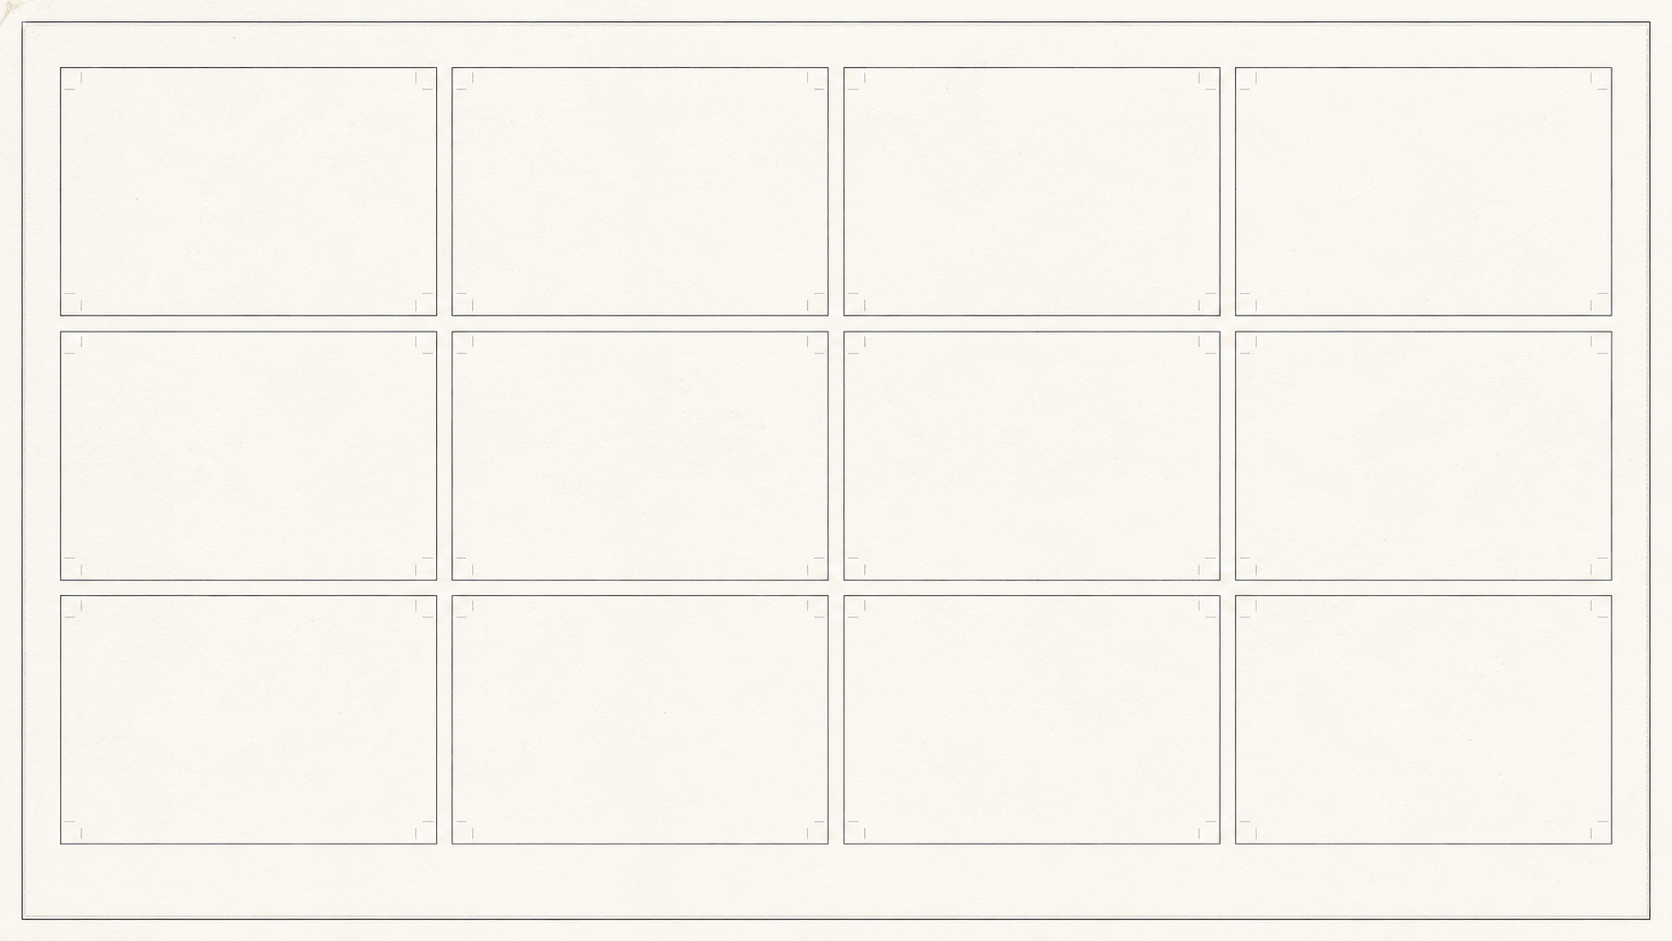
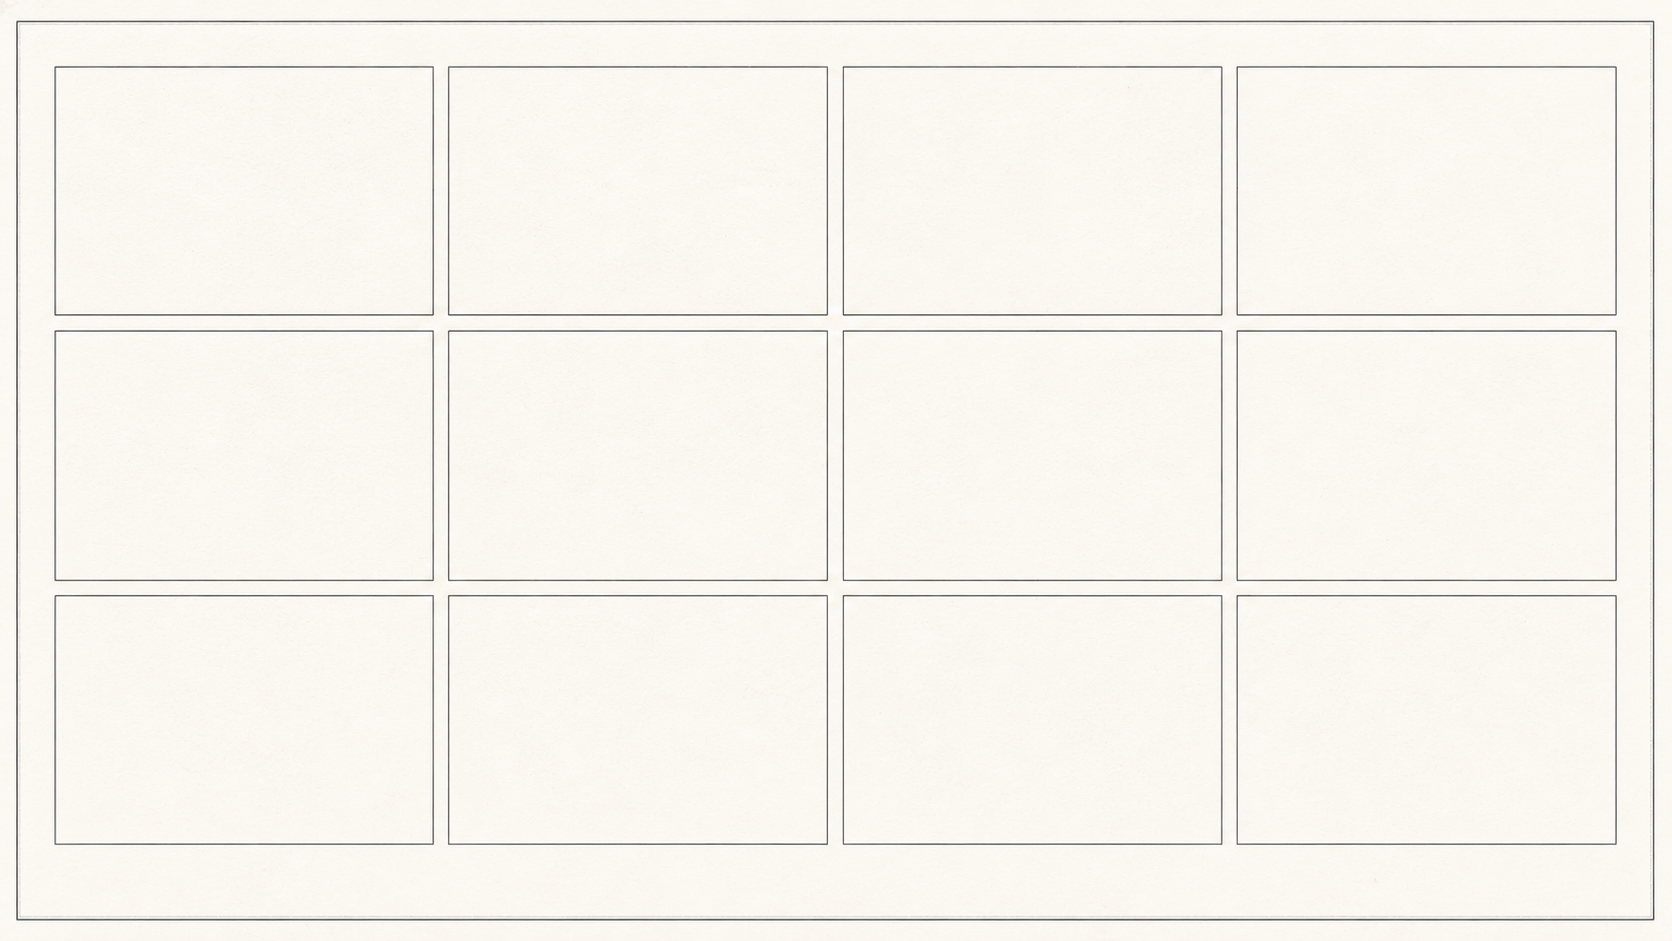
feat(writer): 러프 스토리보드 템플릿 단순판 교체 (Template_2)
코너 마크·이중 보더 제거된 클린 시트(외곽 보더 + 얇은 단일 패널 보더)로 교체.
크기(1672×941)·격자 위치는 구판과 거의 동일 — 비례 좌표 수px 재실측 반영.
스트립은 그리드 1열 크롭 + 좌측 마진 미러로 재구성(488×941, STRIP_COLS 재실측).
프롬프트의 corner marks 문구 제거. 실측 검증: 빈 템플릿 크롭 정렬, 합성 스트립
왕복, 신규 템플릿 실 fal 그리드 1회 생성(구 잡 프롬프트 재사용) — 시트 유지·
3행 구조·목각 캐논·크롭 정합 확인.

diff --git a/src/lib/writer/rough-storyboard-grid.ts b/src/lib/writer/rough-storyboard-grid.ts
@@ -17,21 +17,23 @@ import {
 
 // ── 셀 지오메트리 (finalize crop 이 소비) ─────────────────────────────────────
 // 템플릿 실측 비례 좌표(격자선 3px 인셋) — public/rough-storyboard-grid.png 1672×941 기준.
-//   ⚠️ 템플릿 교체 시 재실측 (dev/Rough_Storyboard_Template 분석 스크립트로 격자 검출).
+//   2026-07-22 교체: Rough_Storyboard_Template_2(단순판 — 코너 마크·이중 보더 제거, 얇은 단일
+//   보더 + 외곽 시트 보더만). 크기·격자 위치는 구판과 거의 동일해 비례 좌표만 수px 재실측.
+//   ⚠️ 템플릿 교체 시 재실측 (격자선 dark-ratio 프로파일로 검출).
 //   edit 모델 출력이 리샘플돼도 종횡비가 유지되면 비례 좌표는 유효하다.
 export const GRID_COLS: ReadonlyArray<readonly [number, number]> = [
-  [0.0377, 0.259],
-  [0.2715, 0.4928],
-  [0.506, 0.7273],
-  [0.7404, 0.9617],
+  [0.0347, 0.2572],
+  [0.2697, 0.4928],
+  [0.506, 0.7285],
+  [0.7416, 0.9641],
 ]
 export const GRID_ROWS: ReadonlyArray<readonly [number, number]> = [
-  [0.0744, 0.3316],
-  [0.3549, 0.6121],
+  [0.0744, 0.3305],
+  [0.3549, 0.6132],
   [0.6355, 0.8927],
 ]
-// 스트립 템플릿(420×941) — 열 1개, 행은 grid 와 동일.
-export const STRIP_COLS: ReadonlyArray<readonly [number, number]> = [[0.0595, 0.9405]]
+// 스트립 템플릿(488×941, 그리드 1열 크롭 + 좌측 마진 미러) — 열 1개, 행은 grid 와 동일.
+export const STRIP_COLS: ReadonlyArray<readonly [number, number]> = [[0.1189, 0.8811]]
 export const STRIP_ROWS = GRID_ROWS
 
 export type RoughGridVariant = 'grid4' | 'strip1'
@@ -160,13 +162,13 @@ export function buildRoughGridPrompt(cells: RoughGridCell[], variant: RoughGridV
   const colCount = variant === 'grid4' ? GRID_COLS.length : 1
   const head =
     variant === 'grid4'
-      ? `The reference image is a paper storyboard sheet with 12 empty panels in a 4-column × 3-row grid. Keep the sheet, panel borders, margins and corner marks exactly as they are — draw only INSIDE the panels, never across panel borders.
+      ? `The reference image is a paper storyboard sheet with 12 empty panels in a 4-column × 3-row grid. Keep the sheet, panel borders and margins exactly as they are — draw only INSIDE the panels, never across panel borders.
 
 Each COLUMN is one shot of a film, read top to bottom as three frames:
 - Row 1 (top) = START: the composition at the beginning of the shot.
 - Row 2 (middle) = DIRECTION: an EXACT identical copy of Row 1 — trace the very same drawing with the same poses, positions, framing and props, frozen at the same instant. Do NOT advance the motion; do NOT draw an in-between moment; nothing in the scene may change from Row 1. Then overlay bold hand-drawn direction arrows for the camera and figure movement described below, with short handwritten English labels (e.g. "DOLLY IN", "PAN →", "TURNS"). The ONLY difference between Row 1 and Row 2 is the arrows and labels drawn on top. Row 2 is the ONLY place where text is allowed.
 - Row 3 (bottom) = END: the composition at the end of the shot, after the movement completes. Row 3 is the only frame where the motion has visibly progressed — and when a shot has movement, its END must differ clearly and unmistakably from its START (full extent of the motion over the shot's stated duration), never a barely-changed copy.`
-      : `The reference image is a paper storyboard strip with 3 empty panels stacked vertically. Keep the sheet, panel borders and corner marks exactly as they are — draw only INSIDE the panels.
+      : `The reference image is a paper storyboard strip with 3 empty panels stacked vertically. Keep the sheet, panel borders and margins exactly as they are — draw only INSIDE the panels.
 
 The strip is ONE shot of a film, read top to bottom as three frames:
 - Panel 1 (top) = START: the composition at the beginning of the shot.